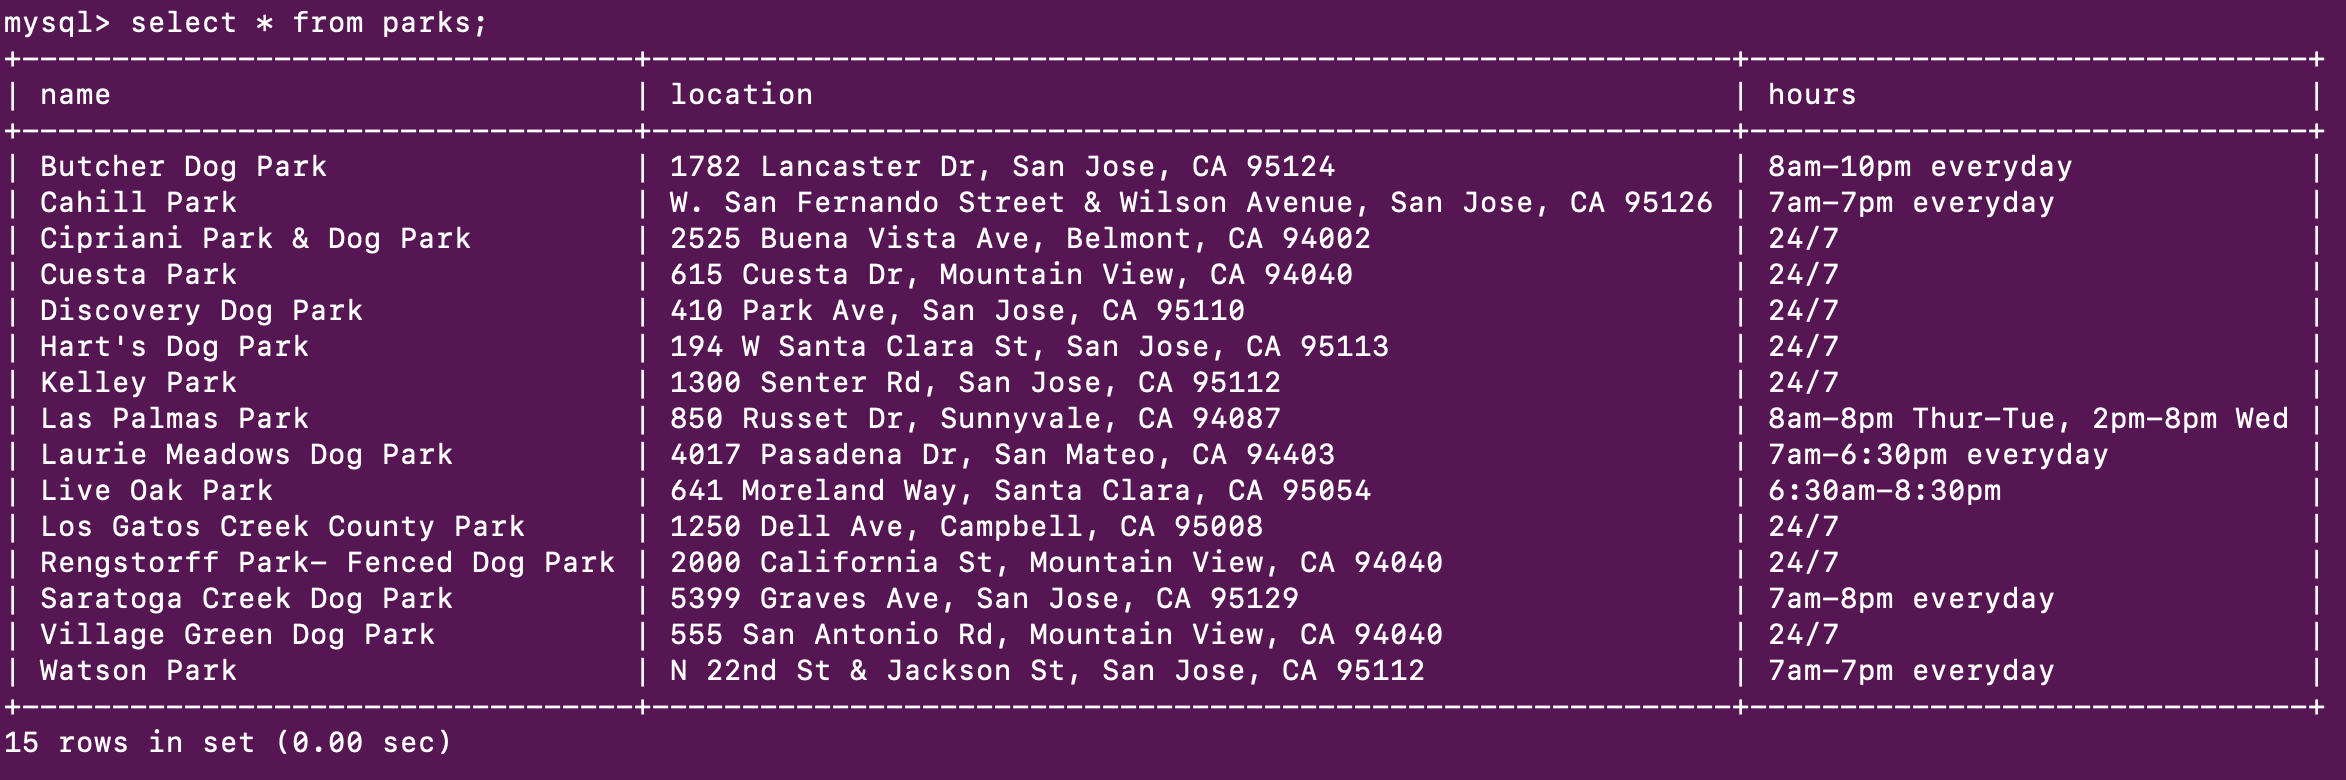
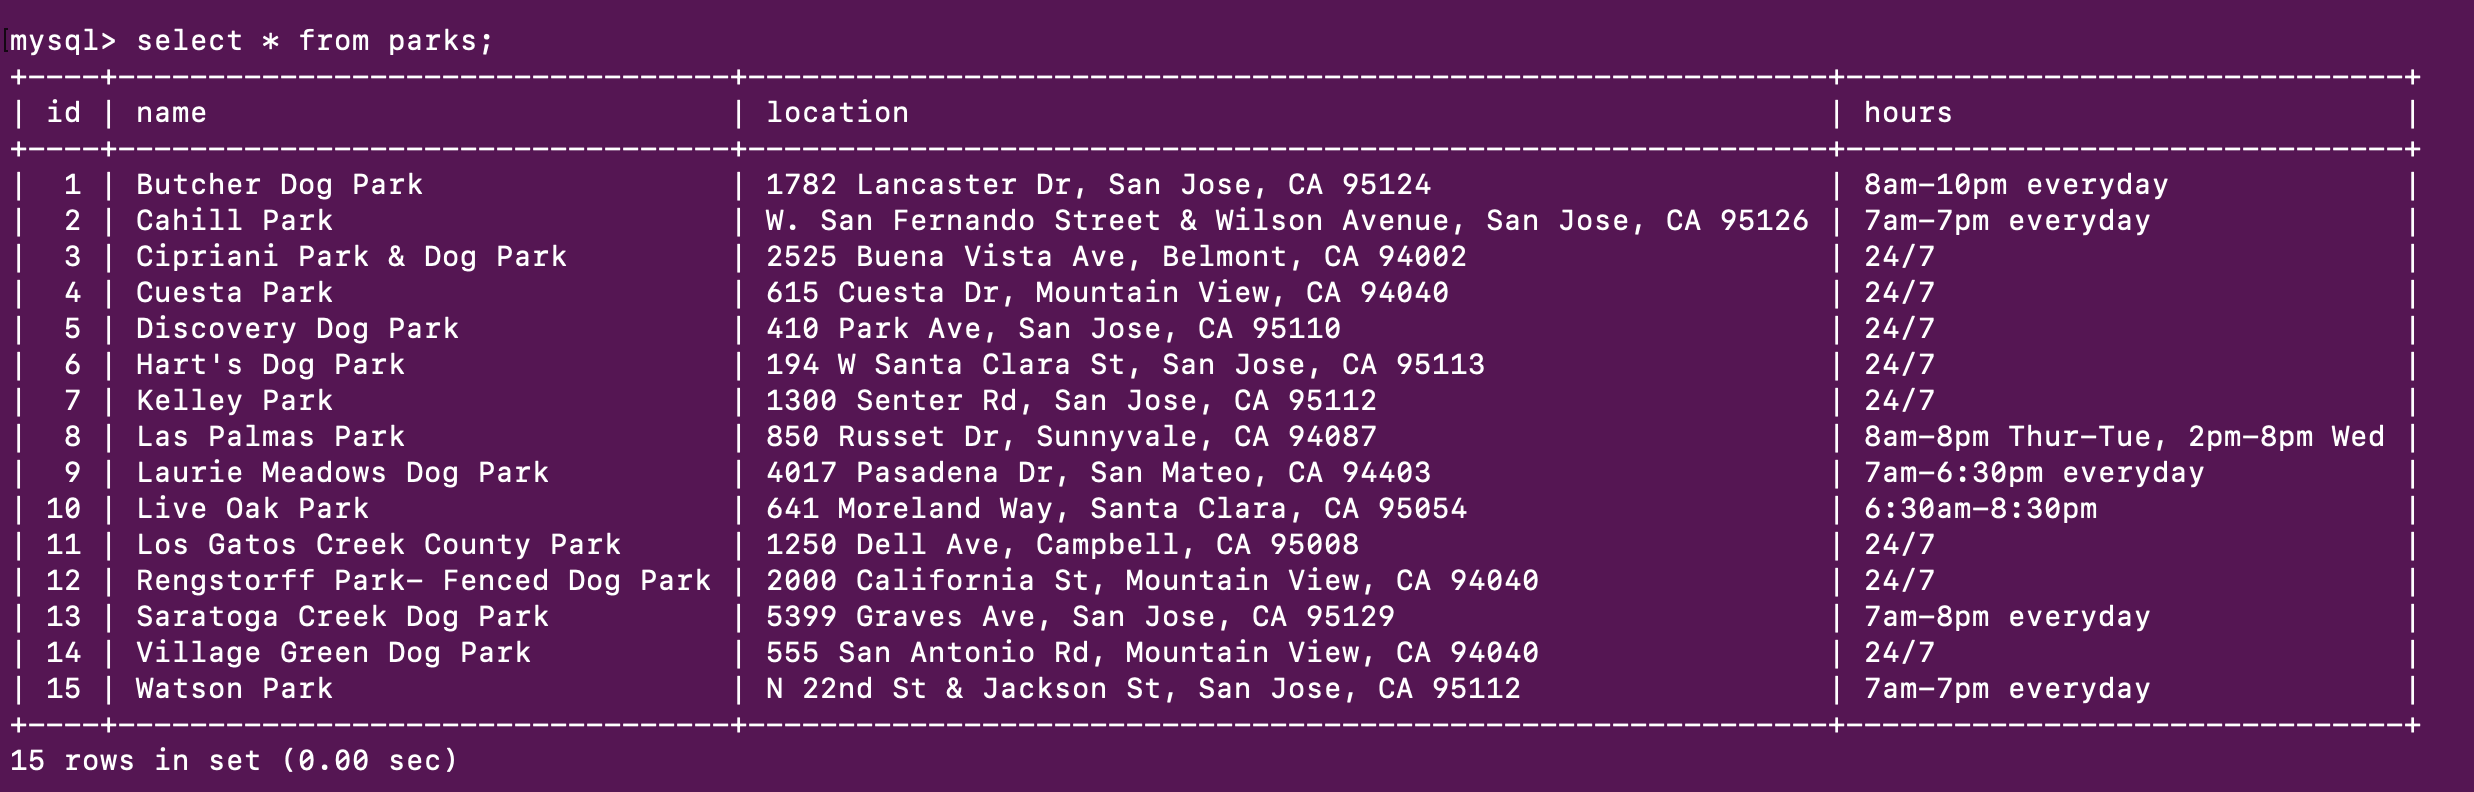
Elana db pics (#16)
* merge other db pics

* merge my db pics

* correct table naming and add auto_increment keys

* club_parks

Changed region(s): [[0.0, 0.0, 0.9957, 0.9846]]

diff --git a/README.md b/README.md
@@ -80,29 +80,27 @@ Parks can have vending machines or be near stores that sell treats. This can be 
 ## Relational Schemas
 * __bold__ = primary key
 
-owners(__id__, email, password, name, location)
+pets (__id__, name, weight, age, species)
 
-pets(__id__, name, weight, age, species)
+owners (__id__, email, password, name, location)
 
-clubs(__id__, name, size, species)
+clubs (__id__, name, size, species)
 
-parks(__id__, name, location, hours)
+parks (__id__, name, location, hours)
 
-treats(__id__, manufacturer, name, species)
+treats (__id__, manufacturer, name, species)
 
-pet_pet(__id__, pet1_id, pet2_id)
+pet_friends (__pet_id__, __friend_id__)
 
-owner_club(__id__, owner_id, club_id)
+owner_clubs (__owner_id__, __club_id__)
 
-owner_park(__id__, owner_id, park_id)
+owner_parks (__owner_id__, __park_id__)
 
-club_park(__id__, club_id, park_id)
+club_parks (__club_id__, __park_id__)
 
-pet_treat(__id__, pet_id, treat_id)
+pet_treats (__pet_id__, __treat_id__)
 
-park_treat(__id__, park_id, treat_id)
-
-insert into parks(name, location, hours) values("", "", ""); 
+park_treats (__park_id__, __treat_id__) 
 
 ## Database Pictures
 
@@ -114,7 +112,7 @@ Pets
 
 ![alt-text](./db_assets/pets.png)
 
-Clubs (To be added)
+Clubs
 
 ![alt-text](./db_assets/clubs.png)
 
@@ -133,6 +131,9 @@ Pet_Pet
 Owner_Club (To be added)
 
 ![alt-text](./db_assets/owner_club.png)
+
+Club_Parks
+![alt-text](./db_assets/club_parks.png)
 
 Owner_Park
 

diff --git a/mysql_commands.md b/mysql_commands.md
@@ -109,3 +109,23 @@ CREATE TABLE pet_treat(
 CREATE USER IF NOT EXISTS 'petbook'@'%' IDENTIFIED WITH mysql_native_password BY 'petbook!Node.js';
 GRANT ALL PRIVILEGES ON petbook.* TO 'petbook'@'%';
 FLUSH PRIVILEGES;
+
+
+## Commands that use auto_increment ids and correct naming
+create database petbook;
+
+create table pets(id int not null auto_increment, name varchar(45) not null, weight int, age int, species varchar(45), primary key(id), foreign key(id) references owners(id));
+
+create table owners(id int not null auto_increment, email varchar(45) not null, password char(60) not null, name varchar(45) not null, primary key(id));
+
+create table clubs(id int not null auto_increment, name varchar(45), size int, species varchar(45), primary key(id));
+
+create table parks(id int not null auto_increment, name varchar(45), location varchar(100) not null, hours varchar(45), primary key(id));
+
+create table treats(id int not null auto_increment, manufacturer varchar(45) not null, name varchar(45) not null, species varchar(45), primary key(id));
+
+create table clubs_parks(id int not null auto_increment, club_id int not null, park_id int not null, primary key(id), foreign key (club_id) references clubs(id), foreign key (park_id) references parks(id));
+
+
+### To retroactively add the auto increment id
+alter table clubs add id int not null auto_increment primary key first;    
